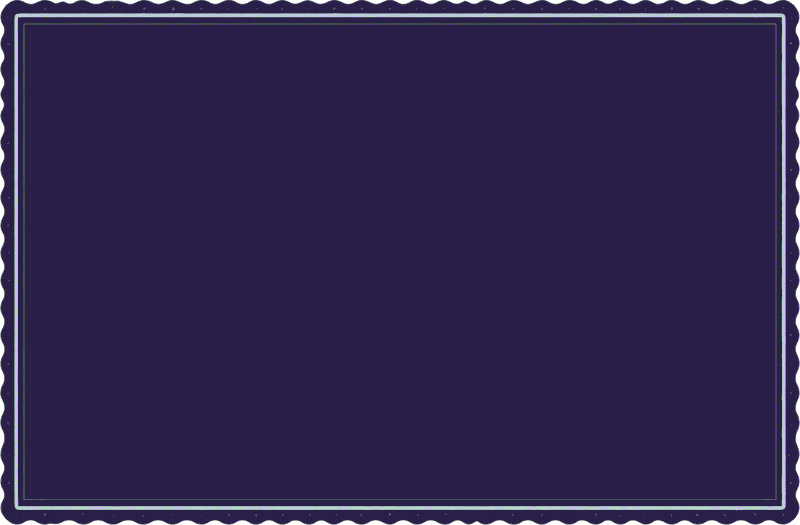
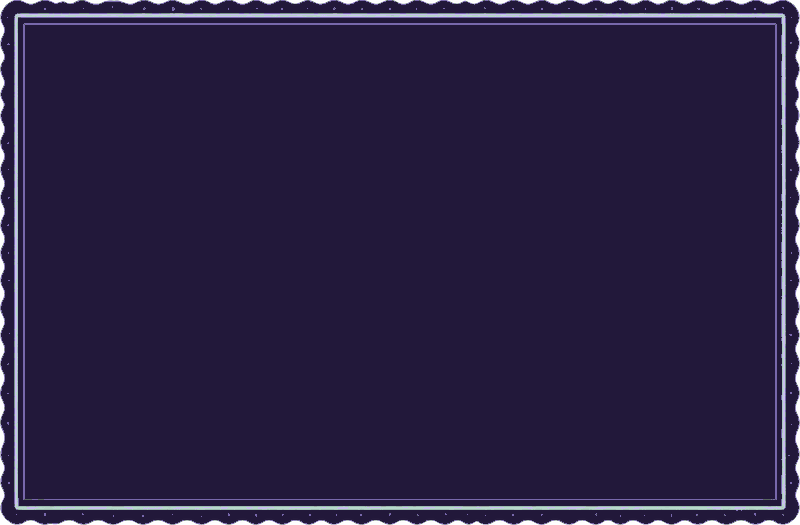
fix(practice): pale pine tray, and the drill cards get their height back
The tray was dark walnut, which sat like a hole in the middle of the day
palette. It is pale pine now, with the cocoa ink the rest of the day theme
uses back on it; the letter tiles lift a step above it so each letter reads
as its own object rather than a printed line.

The spell card was 820x260 — a bench, not a card — because the memory page
sets 260px on `.study-card` with four class names and a rule written on
`.rune-surface` alone lost to it. The height is restated at the same weight
and the card is 420 tall, 1.95:1 against the choice card's 1.78:1.

Night keeps its slate but gets its rim lifted so the board still reads as a
carved object against the near-black panel.

Changed region(s): [[0.0312, 0.0305, 1.0, 0.9448], [0.0, 0.061, 0.0312, 0.9448]]

diff --git a/frontend/src/controls.css b/frontend/src/controls.css
@@ -5414,14 +5414,14 @@ html[data-theme='night'] .personal-workspace .emblem--seal:not(.is-earned) .embl
   margin-inline: 0;
   padding: 0 !important;
   border-style: solid !important;
-  /* The material is the drill's own: a carved stele for choice, a baked
-   * biscuit for spelling, and the pumpkin card for everything else. All three
-   * are 9-slice sources whose rim sits in a band about 64px wide on the
-   * delivered art, so the slice is given in pixels — a percentage would cut a
-   * different depth out of the top than out of the side on a 3:2 image.
-   * `border-image-width` is what decides how much room the band takes on
-   * screen, and it is deliberately smaller than the slice: the art is drawn
-   * at 800px wide but the card is not. */
+  /* The material is the drill's own: a carved stele for choice, a wooden type
+   * tray for spelling by day and a slate by night, and the pumpkin card for
+   * everything else. All of them are 9-slice sources whose rim sits in a band
+   * about 64px wide on the delivered art, so the slice is given in pixels — a
+   * percentage would cut a different depth out of the top than out of the
+   * side on a 3:2 image. `border-image-width` is what decides how much room
+   * the band takes on screen, and it is deliberately smaller than the slice:
+   * the art is drawn at 800px wide but the card is not. */
   border-width: 30px !important;
   border-image-source: var(--rune-card) !important;
   border-image-slice: 64 fill !important;
@@ -5431,6 +5431,14 @@ html[data-theme='night'] .personal-workspace .emblem--seal:not(.is-earned) .embl
   background: transparent !important;
   box-shadow: none !important;
   color: #3b2a1a;
+}
+
+/* A card, not a bar. The spelling drill is one short row of cells and would
+ * otherwise collapse to 820x260. The memory page sets 260px on `.study-card`
+ * with four class names, so the height is restated here at the same weight. */
+.personal-workspace .rune-surface,
+.personal-workspace .memory-page .memory-main-card .study-card.rune-surface {
+  min-height: 420px;
 }
 
 /* Night is the same card after dark: near-black ground, cream ink. */
@@ -5463,12 +5471,19 @@ html[data-theme='night'] .personal-workspace .rune-surface .spell-head__prompt {
   color: #f3e9d2;
 }
 
-/* The spelling board is dark wood by day, so its ink is cream in both themes. */
-html[data-theme='day'] .personal-workspace .study-card--spelling .spell-head__prompt,
-html[data-theme='day'] .personal-workspace .study-card--spelling .spell-head__eyebrow,
+/* The tray is pale pine by day, so its ink is the cocoa the rest of the day
+ * palette uses; night is the dark slate and keeps its cream. */
+html[data-theme='day'] .personal-workspace .study-card--spelling .spell-head__prompt {
+  color: #3b2a1a;
+}
+
+html[data-theme='day'] .personal-workspace .study-card--spelling .spell-head__eyebrow {
+  color: #4a3524;
+}
+
 html[data-theme='day'] .personal-workspace .study-card--spelling .spell-head__phonetic,
 html[data-theme='day'] .personal-workspace .study-card--spelling .spell-head__hint {
-  color: #f6e8cf;
+  color: #6b533a;
 }
 
 /* The option is a fixed-length stone plate, drawn once and used at one size,

diff --git a/frontend/src/components/SpellingTrainer.vue b/frontend/src/components/SpellingTrainer.vue
@@ -311,9 +311,10 @@ function submit(): void {
 
 /* The given letters are marked, not recoloured: the tile they sit on stays
  * the tile, and a wash over it says "already here". */
+/* The given letters are marked by their colour alone. A wash over the tile
+ * turned the wood grey, which read as a disabled control rather than a hint. */
 .spelling-cell--prefilled {
-  color: #4e3d24;
-  box-shadow: inset 0 0 0 999px rgb(120 92 40 / 26%);
+  color: #8a6a3e;
 }
 
 .spelling-cell--active {
